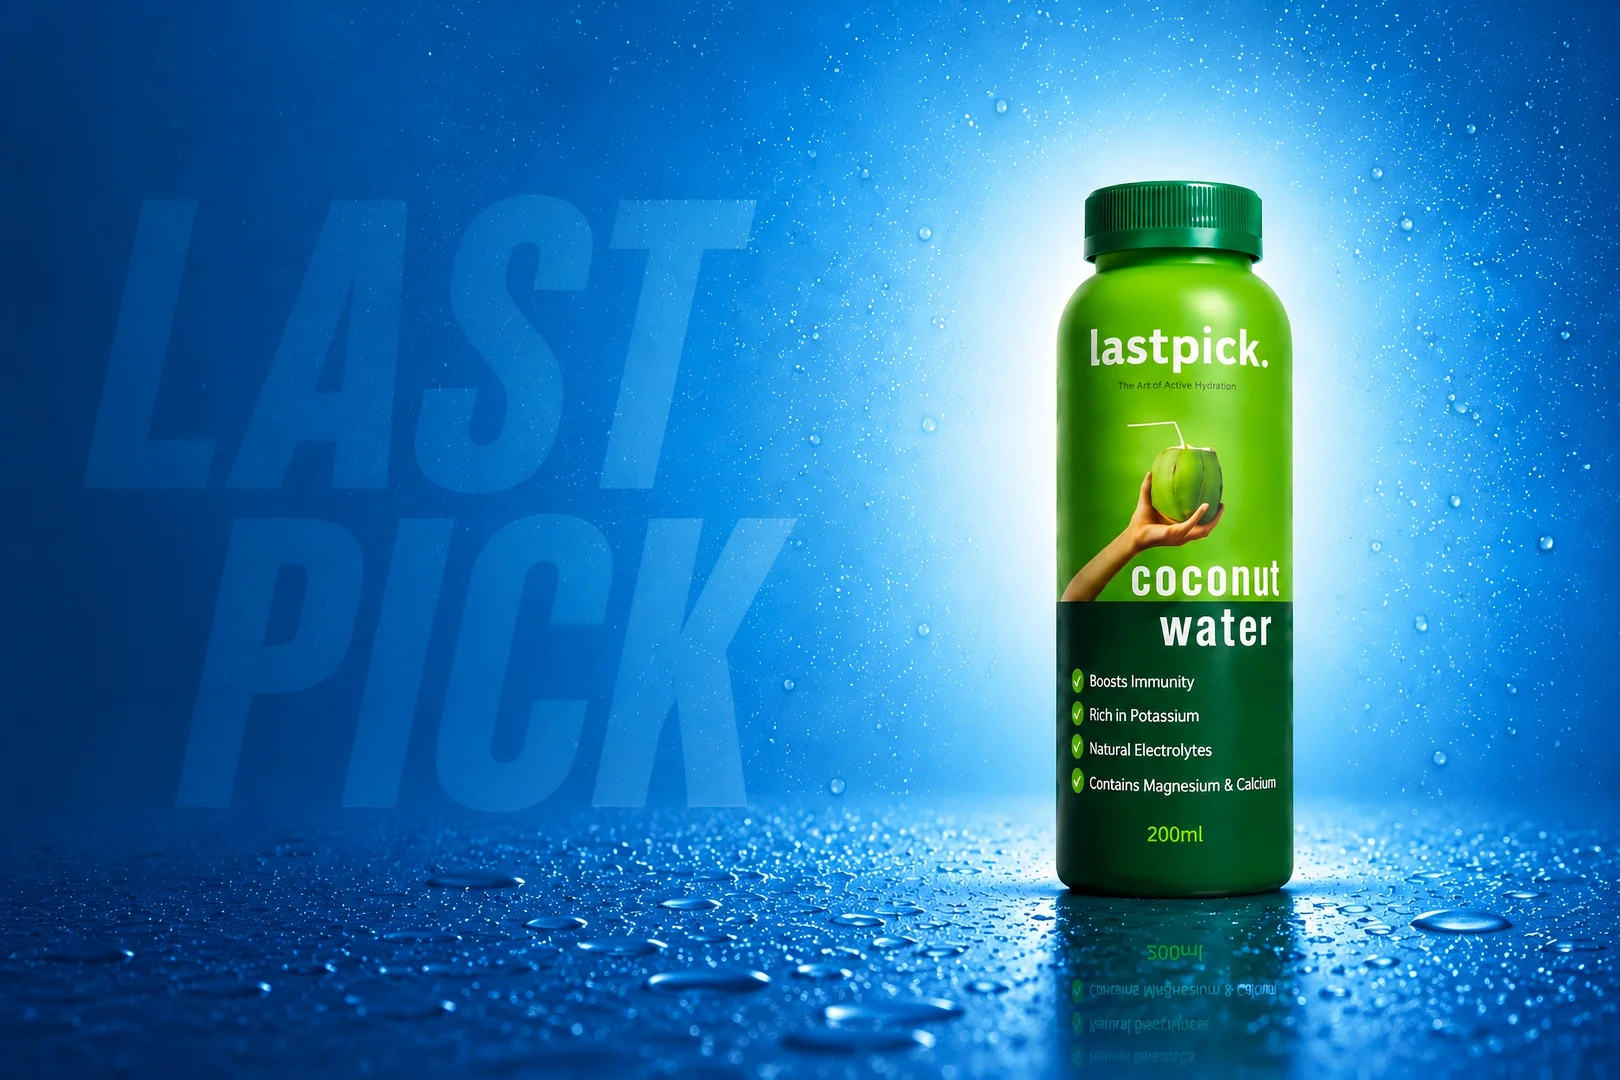
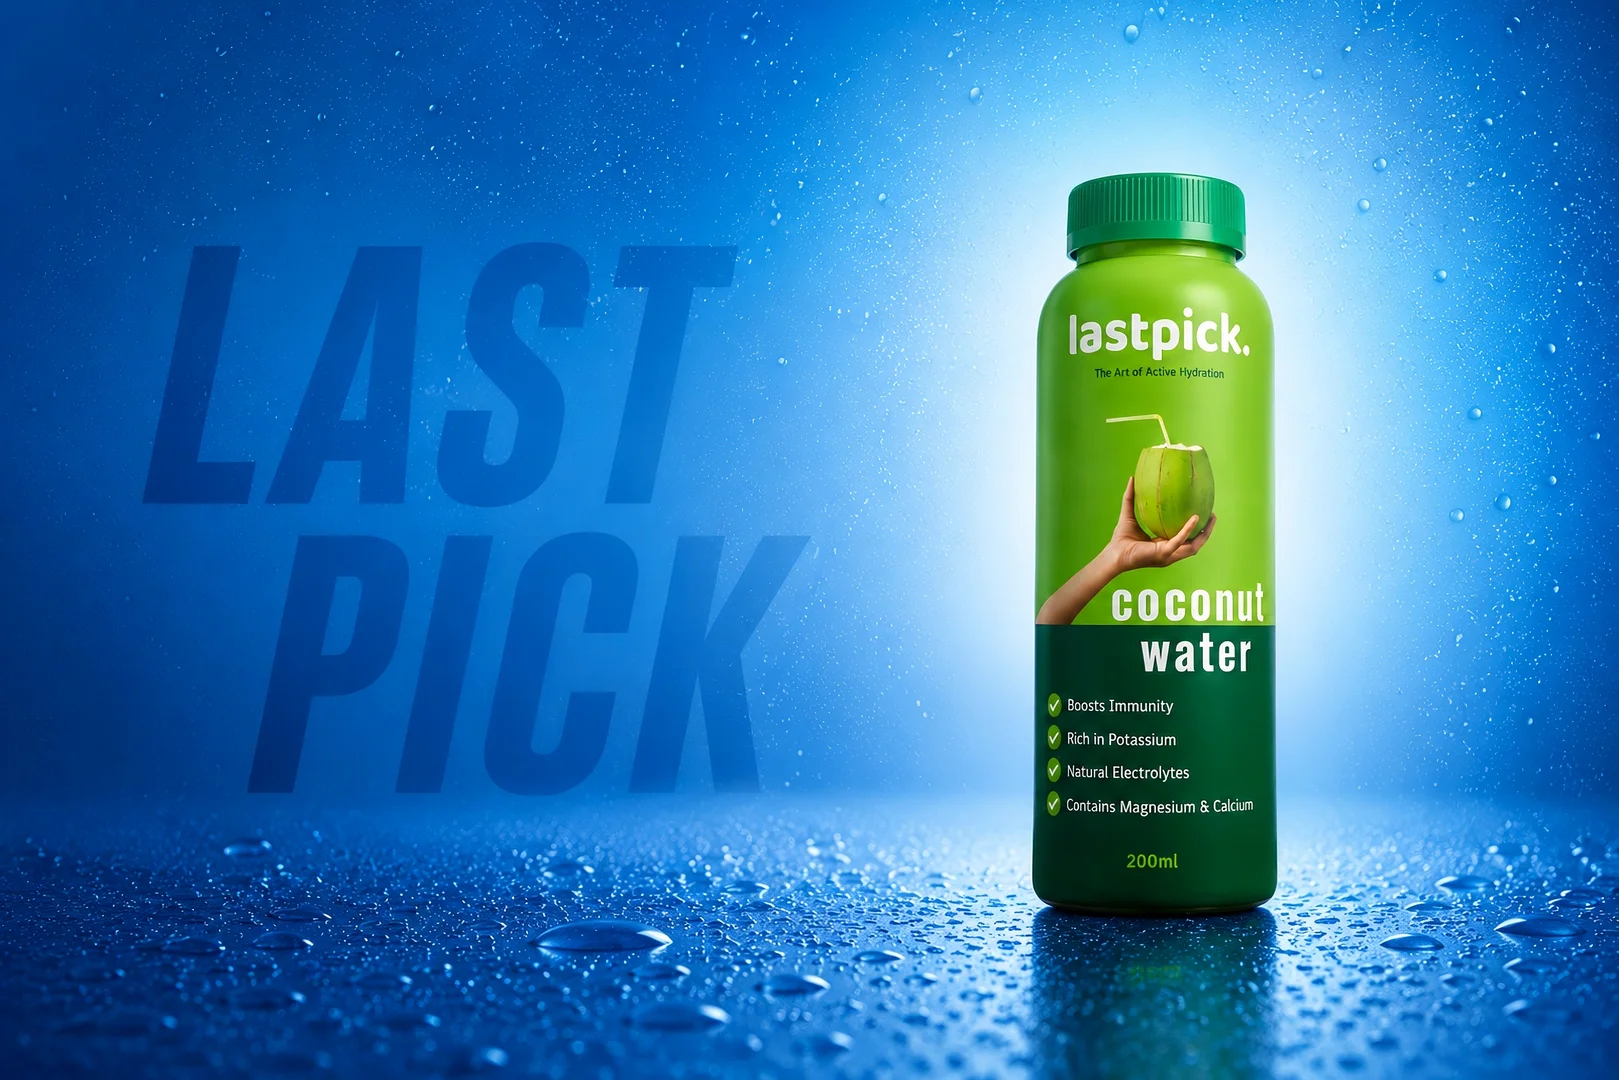
Optimize mobile hero height

diff --git a/styles.css b/styles.css
@@ -965,7 +965,7 @@ button:focus-visible,
   }
 
   .hero {
-    min-height: 500px;
+    min-height: 430px;
   }
 
   .hero-bg {
@@ -1194,7 +1194,7 @@ button:focus-visible,
 
 @media (max-width: 430px) {
   .hero {
-    min-height: 480px;
+    min-height: 410px;
   }
 
   .hero-bg {